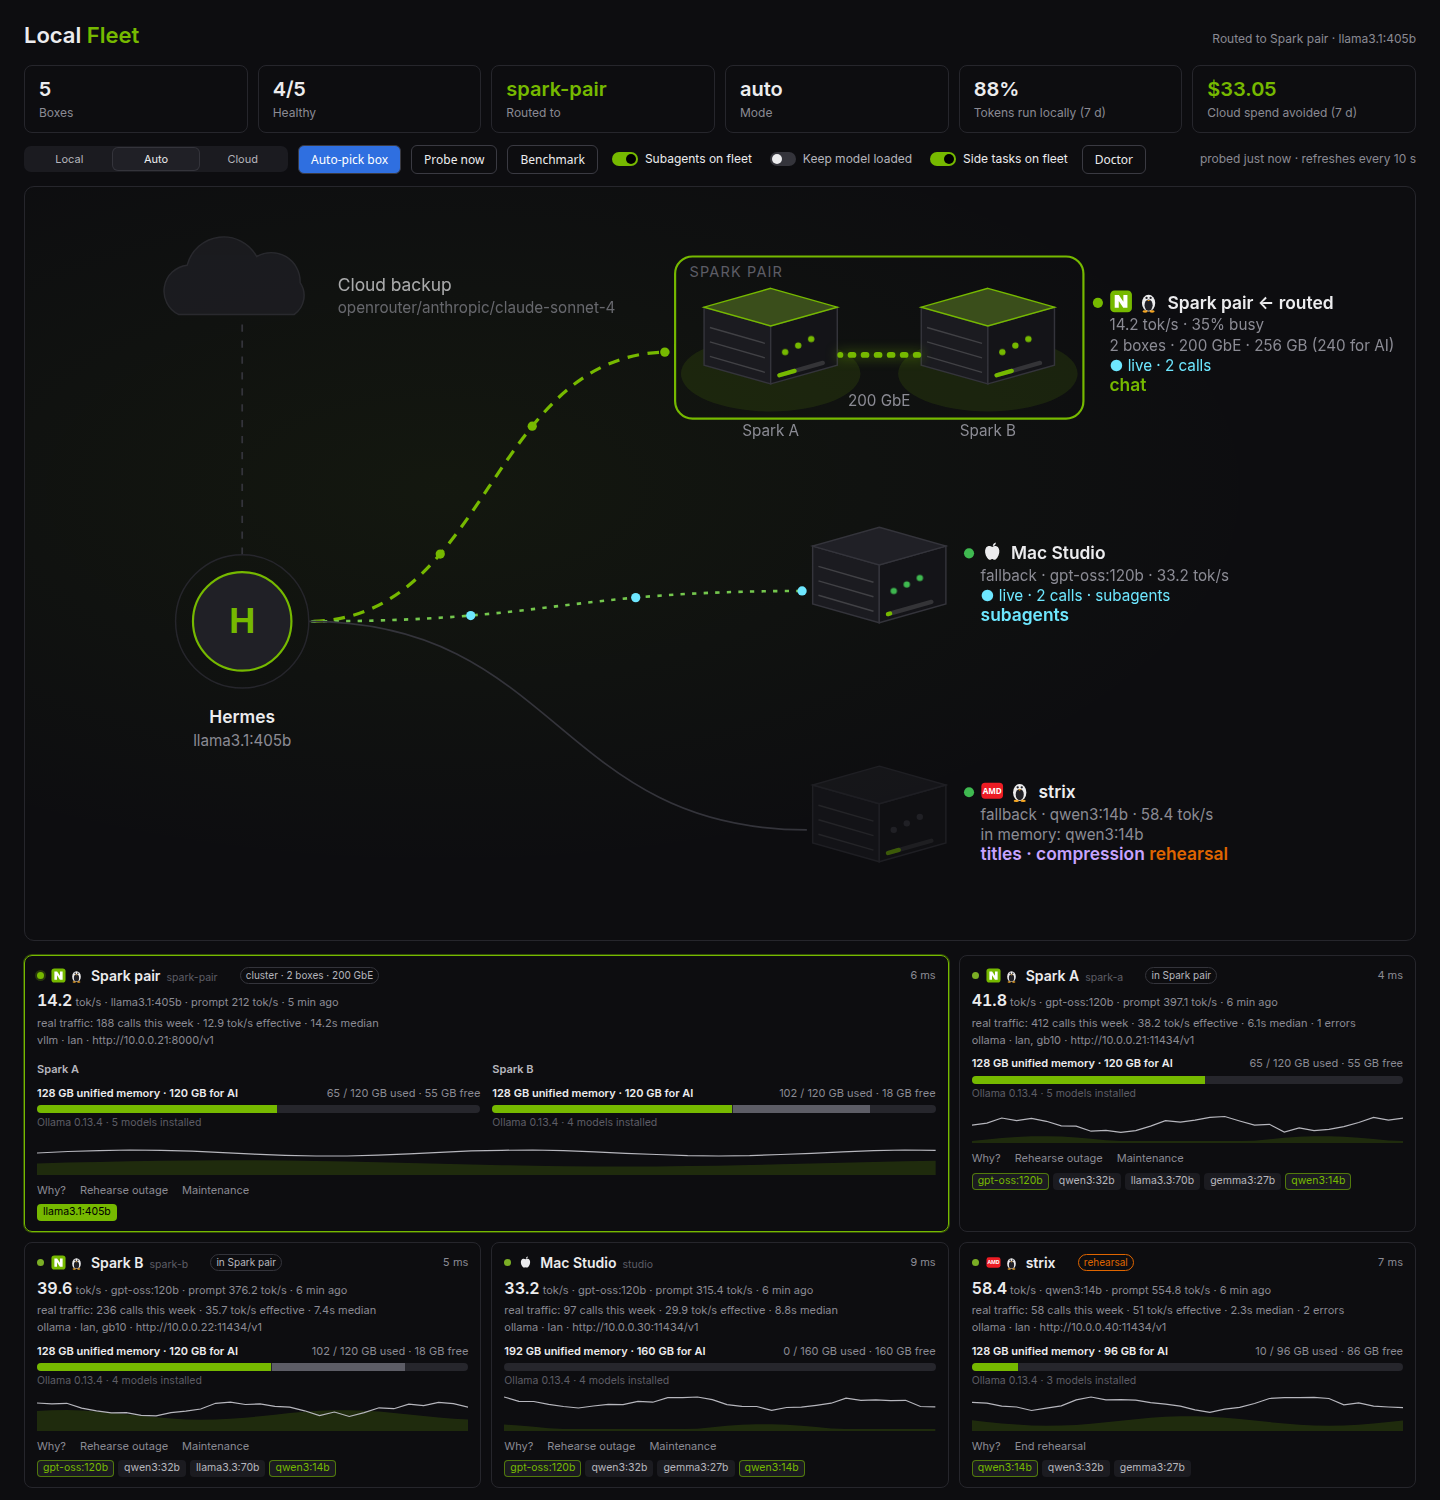
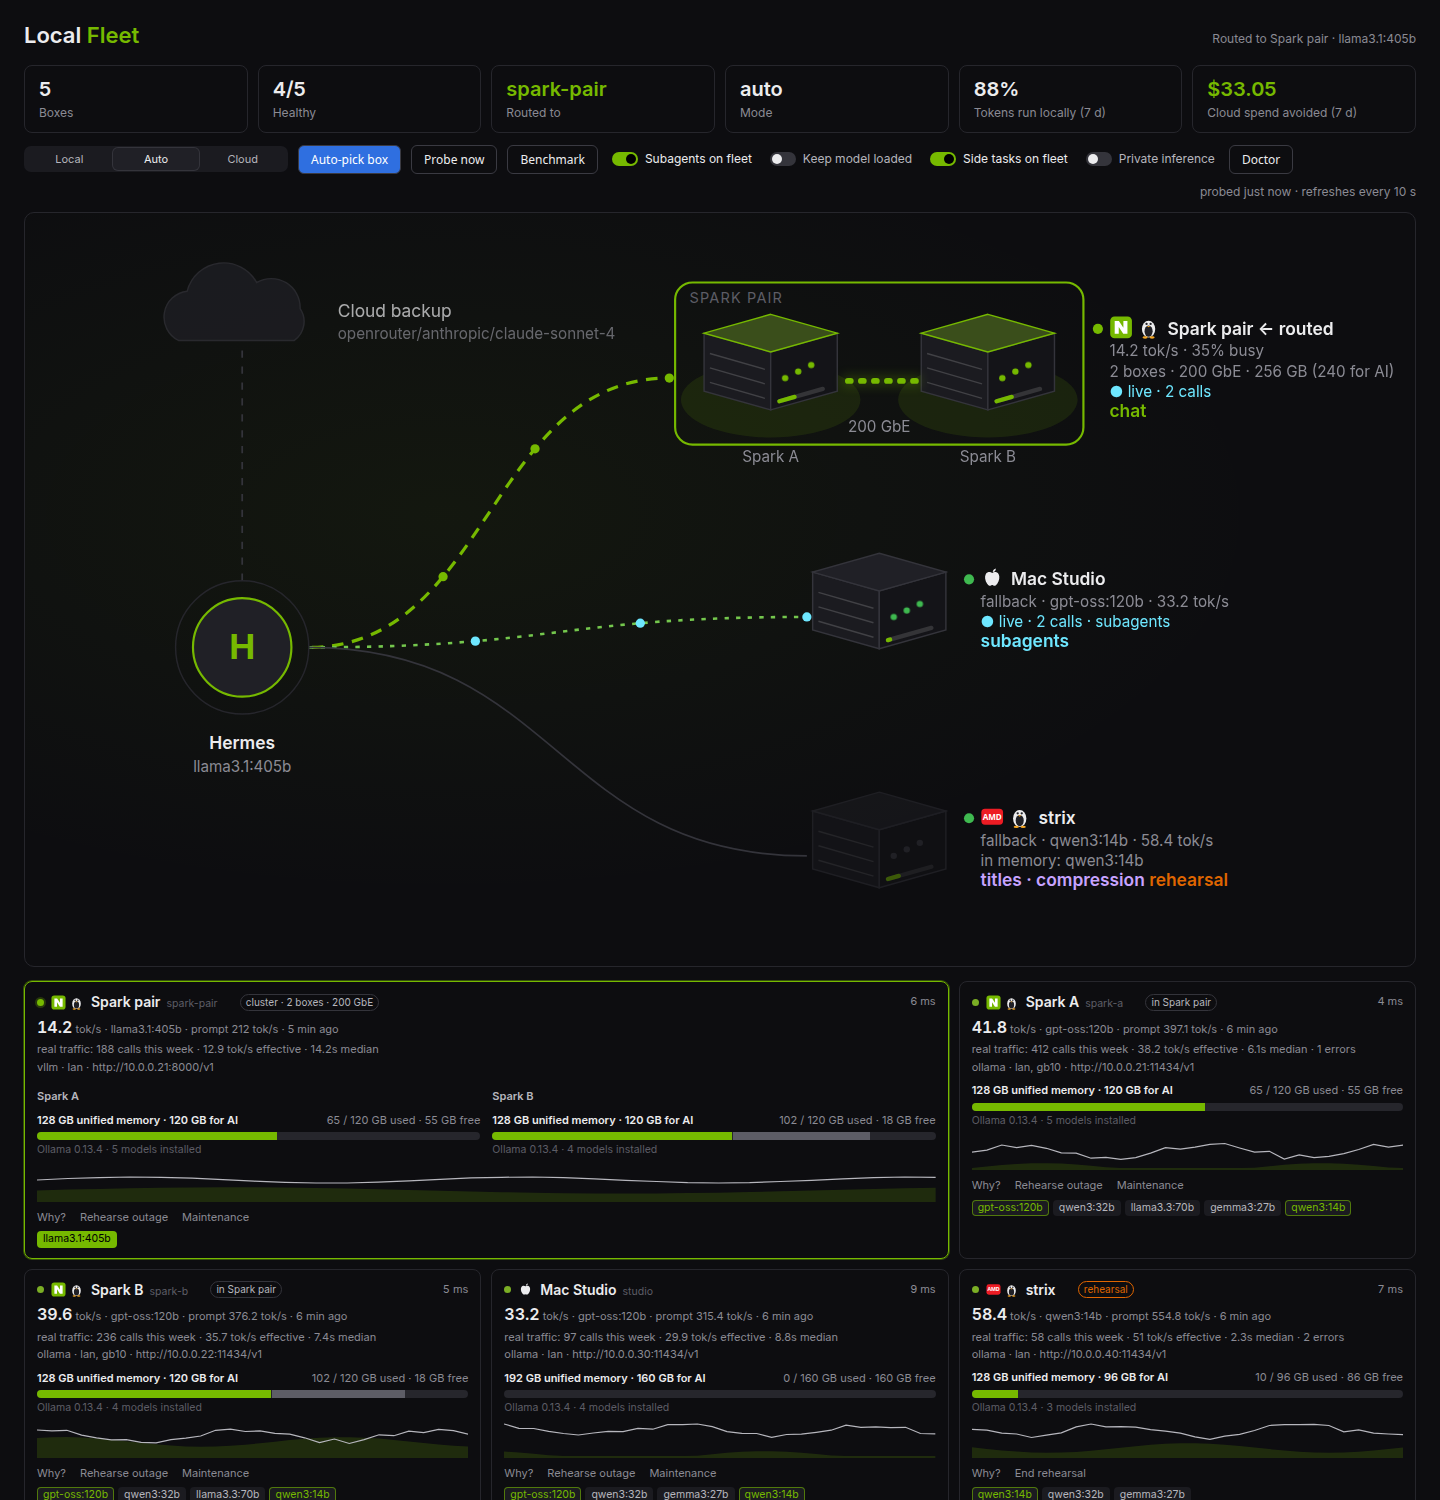
Screenshots: re-rendered for 0.2.0 (synthetic data: probe age, baseline, watch heartbeat, private toggle)
Claude-Session: https://claude.ai/code/session_01QbcLKxfPH7H589C9nimwTC

diff --git a/scripts/screenshots/make_demo_state.py b/scripts/screenshots/make_demo_state.py
@@ -120,15 +120,19 @@ for n in nodes:
     n["caps"] = caps
 state["model_tiers"] = [BIG, MAIN, FALLBACK]
 state["min_context"] = 32768
+state["probe_interval_s"] = 30
+state["private_only"] = False
+state["private"] = {"on": False, "in_force": False, "problems": [], "scope": ""}
+state["watch_at"] = iso(0.3)
 state["exclusions"] = {"d00004": {"kind": "rehearsal", "until": (NOW + timedelta(minutes=8)).isoformat(), "since": iso(2), "label": "strix"}}
 state["last_decision"].update({"mode": "auto", "tier": 0, "tier_model": BIG, "pinned": False, "at": iso(1),
     "target": {"kind": "local", "node_id": "d00009", "node_name": "spark-pair", "model": BIG},
     "candidates": [
-        {"id": "d00009", "name": "spark-pair", "title": "Spark pair", "eligible": True, "reason": "ok", "load": 0.35, "latency_ms": 6, "free_bytes": None, "tps": 14.2, "chosen": True, "least_busy": True, "score": [0.35, 0, -14.2, 0]},
-        {"id": "d00001", "name": "spark-a", "title": "Spark A", "eligible": False, "reason": "does not have llama3.1:405b", "load": 0.35, "latency_ms": 4},
-        {"id": "d00002", "name": "spark-b", "title": "Spark B", "eligible": False, "reason": "does not have llama3.1:405b", "load": 0.44, "latency_ms": 5},
-        {"id": "d00003", "name": "studio", "title": "Mac Studio", "eligible": False, "reason": "does not have llama3.1:405b", "load": 0.0, "latency_ms": 9},
-        {"id": "d00004", "name": "strix", "eligible": False, "reason": "simulated outage (rehearsal) until 14:38", "load": 0.25, "latency_ms": 7}]})
+        {"id": "d00009", "checked_at": iso(0.2), "name": "spark-pair", "title": "Spark pair", "eligible": True, "reason": "ok", "load": 0.35, "latency_ms": 6, "free_bytes": None, "tps": 14.2, "chosen": True, "least_busy": True, "score": [0.35, 0, -14.2, 0]},
+        {"id": "d00001", "checked_at": iso(0.2), "name": "spark-a", "title": "Spark A", "eligible": False, "reason": "does not have llama3.1:405b", "load": 0.35, "latency_ms": 4},
+        {"id": "d00002", "checked_at": iso(0.2), "name": "spark-b", "title": "Spark B", "eligible": False, "reason": "does not have llama3.1:405b", "load": 0.44, "latency_ms": 5},
+        {"id": "d00003", "checked_at": iso(0.2), "name": "studio", "title": "Mac Studio", "eligible": False, "reason": "does not have llama3.1:405b", "load": 0.0, "latency_ms": 9},
+        {"id": "d00004", "checked_at": iso(0.2), "name": "strix", "eligible": False, "reason": "simulated outage (rehearsal) until 14:38", "load": 0.25, "latency_ms": 7}]})
 state["events"] = [
     {"t": (NOW - timedelta(minutes=185)).timestamp(), "kind": "route", "text": "spark-b · gpt-oss:120b", "reason": "least busy box: spark-b"},
     {"t": (NOW - timedelta(minutes=123)).timestamp(), "kind": "health", "text": "Spark B went down: timeout"},
@@ -143,6 +147,7 @@ state["events"] = [
 state["drift"] = []
 state["traffic"]["breakdown"] = {"local_in": 7_150_000, "local_out": 773_000, "aux_in": 410_000, "aux_out": 38_000,
     "price_in_per_m": 3.0, "price_out_per_m": 15.0, "saved_in": 21.45, "saved_out": 11.6,
+    "baseline": {"model": "anthropic/claude-sonnet-4", "rates": "entered by you (hermes fleet price)", "source": "recorded with the prices"},
     "calls_local": 993, "calls_local_counted": 981, "coverage": 0.988, "since": NOW.timestamp() - 6.5 * 86400,
     "excluded": "cloud calls (they cost what they cost); local calls that reported no token counts",
     "caveat": "Avoided API spend at the rates you entered, not profit: electricity, hardware and your time are not counted, and a local model may need more tokens than the cloud one."}
@@ -153,7 +158,8 @@ DOCTOR = {"checks": [
      "detail": "Ollama's default context may be smaller than Hermes's system prompt (~15k tokens). Create a variant with a larger num_ctx.",
      "fix": {"command": "printf 'FROM qwen3:14b\\nPARAMETER num_ctx 32768\\n' > Modelfile && ollama create qwen3:14b-32k -f Modelfile"}},
     {"id": "excluded:d00004", "level": "info", "title": "strix: rehearsal", "detail": "Left out of new selections.", "fix": {"action": "include:d00004", "label": "Put back in selection"}},
-    {"id": "routing", "level": "ok", "title": "Routed to Spark pair · llama3.1:405b", "detail": "", "fix": None}]}
+    {"id": "routing", "level": "ok", "title": "Routed to Spark pair · llama3.1:405b", "detail": "", "fix": None},
+    {"id": "watch", "level": "ok", "title": "Watch loop running (last tick 18 s ago)", "detail": "", "fix": None}]}
 (Path(__file__).parent / "demo-doctor.json").write_text(json.dumps(DOCTOR))
 
 # The demo clock is fixed; the page compares times with the viewer's clock, so shift everything to "now".
